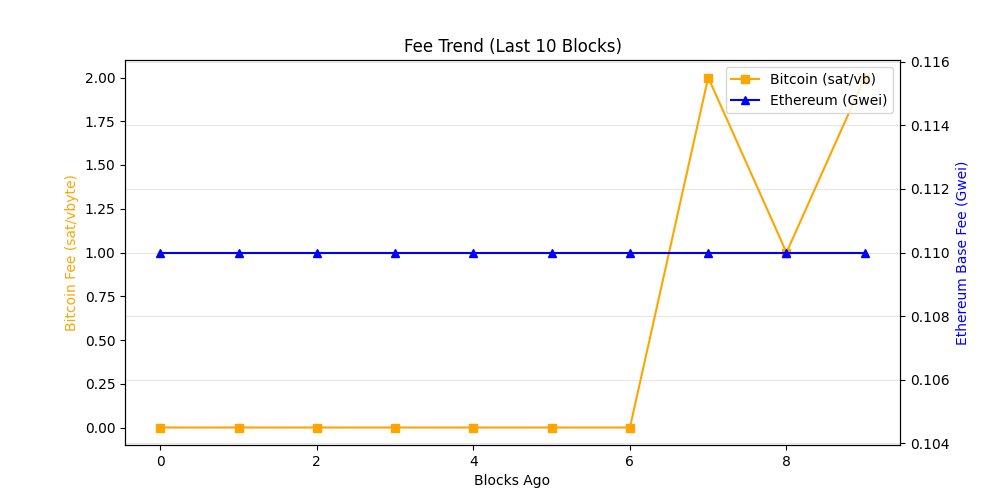
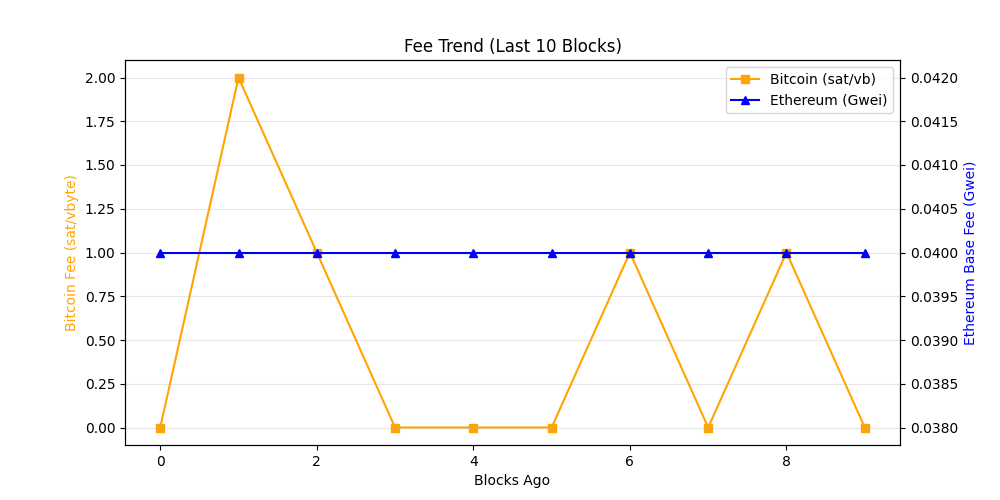
chore: update on-chain dashboard

diff --git a/README.md b/README.md
@@ -19,7 +19,7 @@ The README itself acts as the dashboard and is regenerated automatically on a 6 
 demonstrating a production-style, infrastructure-focused observability workflow rather
 than a traditional UI-driven approach.
 
-_Last updated: 2026-10-27 22:11 UTC_
+_Last updated: 2026-10-28 05:39 UTC_
 
 ## API Usage (GetBlock.io)
 - Calls used: **24**
@@ -27,8 +27,8 @@ _Last updated: 2026-10-27 22:11 UTC_
 ## Network Metrics
 | Chain | Block Height | TX Count | TPS (10 blk avg) | Block Util | Avg Fee |
 |------|-------------|----------|------------------|------------|---------|
-| Ethereum | 26286953 | 231 | 19.25 | 35.12% | 0.1 Gwei |
-| Bitcoin | 973464 | 4062 | 2.63 | 99.79% | N/A |
+| Ethereum | 26289185 | 125 | 10.42 | 98.13% | 0.0 Gwei |
+| Bitcoin | 973507 | 7149 | 46.12 | 99.89% | N/A |
 
 ## Visuals
 ### Transactions Trend
@@ -43,11 +43,7 @@ _Last updated: 2026-10-27 22:11 UTC_
 ## Whale Alerts (latest block)
 - Transaction hashes are truncated for readability.
 - Full hashes are available in `dashboards/metrics.json`
-- Bitcoin | 20486.61 BTC | `28c16719697a…`
-- Bitcoin | 623.57 BTC | `092ee15a96c6…`
-- Bitcoin | 664.38 BTC | `89f83eb21357…`
-- Bitcoin | 129.74 BTC | `f9159222931c…`
-- Bitcoin | 1087.45 BTC | `23b59ed29e3e…`
+- Bitcoin | 124.47 BTC | `1282aa36b86a…`
 
 ## Run locally
 
